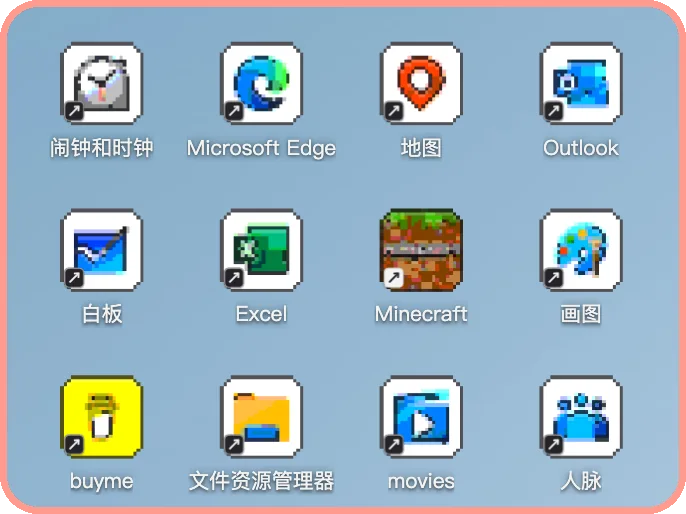
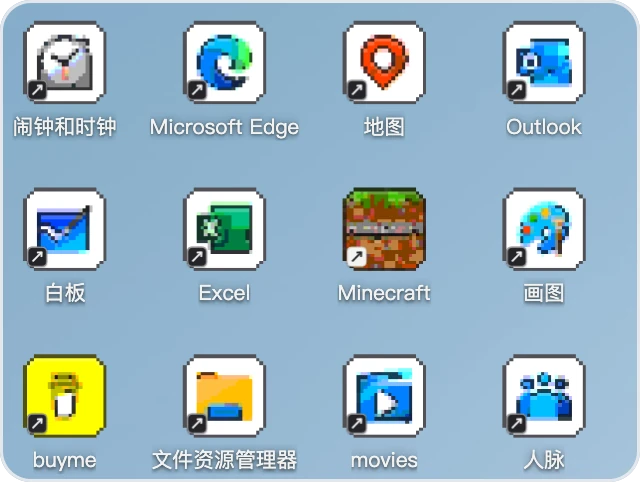
docs(readme): website-matched hairline frames on every capture; site moves to dm.xiaominglab.com
- Every README raster re-baked from the raw flat captures: 12px rounded
  corners + the site's #e4e7ec hairline border replace the coral frames,
  one frame signature shared with the website's capture treatment.
- app-studio/feature-zones re-derived from the clean template shot
  (named Apps/Work/Doing zones, no selection chrome, no skeleton panels).
- Official site linked from badges, install section and footer (en + zh).
- Domain: SITE_URL, llms.txt, wrangler custom-domain route and the
  website spec move from dm.nicepkg.cn to dm.xiaominglab.com (zone lives
  in the account; bound + deployed, canonical/hreflang verified live).

diff --git a/website/lib/site.ts b/website/lib/site.ts
@@ -1,4 +1,4 @@
-export const SITE_URL = "https://dm.nicepkg.cn";
+export const SITE_URL = "https://dm.xiaominglab.com";
 export const GITHUB_URL = "https://github.com/nicepkg/deskmakeover";
 export const RELEASES_LATEST_URL = `${GITHUB_URL}/releases/latest`;
 

diff --git a/README.md b/README.md
@@ -8,12 +8,13 @@
 
 **Give your Windows desktop a look you actually like. Don't like it? One click puts everything back.**
 
-[![Status](https://img.shields.io/badge/beta-v0.1.0-FF6F5E?labelColor=2f363d)](#-how-to-install)
+[![Website](https://img.shields.io/badge/Website-dm.xiaominglab.com-FF6F5E?labelColor=2f363d)](https://dm.xiaominglab.com)
+[![Status](https://img.shields.io/badge/beta-v0.1.0-464f58?labelColor=2f363d)](#-how-to-install)
 [![Windows](https://img.shields.io/badge/Windows-10%20%C2%B7%2011-464f58?labelColor=2f363d)](#-how-to-install)
 [![License](https://img.shields.io/badge/License-MIT-464f58?labelColor=2f363d)](LICENSE)
 [![Tauri](https://img.shields.io/badge/Built%20with-Tauri%202-464f58?labelColor=2f363d)](https://v2.tauri.app/)
 
-**English** · [中文](README.zh-CN.md)
+**English** · [中文](README.zh-CN.md) · [dm.xiaominglab.com](https://dm.xiaominglab.com)
 
 <br/>
 
@@ -110,7 +111,7 @@ Find that arrow ugly? Swap it for a cleaner mark, or remove it. The app does it 
 ## 🎛 Inside the studio
 
 <div align="center">
-<img src=".github/assets/app-studio.webp" width="880" alt="The DeskMakeover window on the wallpaper tab: zones on the live desktop mirror, materials and title styles on the right" />
+<img src=".github/assets/app-studio.webp" width="880" alt="The DeskMakeover window on the wallpaper tab: the Apps, Work and Doing zones live on the desktop mirror, the zone list on the right" />
 <br/>
 <sub>Every tab works the same way: adjust on the right, watch your real desktop change live on the left.</sub>
 </div>
@@ -118,6 +119,8 @@ Find that arrow ugly? Swap it for a cleaner mark, or remove it. The app does it 
 ## 📦 How to install
 
 The first installer is being prepared and will land on the [Releases](https://github.com/nicepkg/deskmakeover/releases) page. Then it's: download, double-click, done. It installs just for your account.
+
+Want the full tour first? The official site is at **[dm.xiaominglab.com](https://dm.xiaominglab.com)**.
 
 > If Windows shows a blue "Windows protected your PC" screen, don't worry. It's not a virus warning, just Windows being cautious with newer software. Click **More info**, then **Run anyway**.
 
@@ -197,6 +200,6 @@ The React UI, the Rust core, docs, localization, and Windows compatibility testi
 
 <img src=".github/assets/rule-gradient.svg" width="880" alt="" />
 
-<img src=".github/assets/logo.png" width="40" alt="" /><br/><b>DeskMakeover · 桌面美颜</b><br/><sub>[Releases](https://github.com/nicepkg/deskmakeover/releases) · [Issues](https://github.com/nicepkg/deskmakeover/issues) · English · [中文](README.zh-CN.md)</sub>
+<img src=".github/assets/logo.png" width="40" alt="" /><br/><b>DeskMakeover · 桌面美颜</b><br/><sub>[dm.xiaominglab.com](https://dm.xiaominglab.com) · [Releases](https://github.com/nicepkg/deskmakeover/releases) · [Issues](https://github.com/nicepkg/deskmakeover/issues) · English · [中文](README.zh-CN.md)</sub>
 
 </div>

diff --git a/docs/specs/10-website.md b/docs/specs/10-website.md
@@ -1,4 +1,4 @@
-# 10 — Website (dm.nicepkg.cn landing page)
+# 10 — Website (dm.xiaominglab.com landing page)
 
 Status: approved direction v4 (owner, 2026-07-17). v1 light-editorial, v2 dark-cinema and
 v3 flat-shader takes were all owner-rejected; v3 lives in `website-legacy/` for reference
@@ -8,7 +8,8 @@ the art direction sections of that plan are superseded by this spec).
 
 ## Scope
 
-One static marketing page for DeskMakeover at `dm.nicepkg.cn`, bilingual (`/` English,
+One static marketing page for DeskMakeover at `dm.xiaominglab.com` (originally planned
+as dm.nicepkg.cn; the owner remapped 2026-07-17), bilingual (`/` English,
 `/zh` Chinese), with a Download call-to-action, deployed to Cloudflare Workers Static
 Assets via wrangler, auto-deployed from CI.
 
@@ -168,9 +169,8 @@ Cloudflare Web Analytics beacon only (no cookies), injected only when
 - `website/` inside this repo, own `package.json` (root has no `workspaces`; keep it so).
 - Hosting: Cloudflare **Workers Static Assets** — `wrangler.jsonc` with
   `assets: { directory: "./out" }`, `workers_dev: true`. No Worker script file: requests
-  are served from assets and bill nothing. Custom-domain route for `dm.nicepkg.cn` is
-  commented until the zone moves into the Cloudflare account (currently on Aliyun DNS;
-  interim: CNAME `dm` → `deskmakeover-site.2214962083.workers.dev`).
+  are served from assets and bill nothing. Custom-domain route `dm.xiaominglab.com`
+  (`custom_domain: true`; xiaominglab.com is a zone in the account) binds on deploy.
 - CI: `.github/workflows/website.yml`, path-filtered to `website/**`; builds with bun,
   deploys with wrangler 4 on push to main (deploy step gated on the CF token secret).
 
@@ -191,7 +191,7 @@ Cloudflare Web Analytics beacon only (no cookies), injected only when
 3. The 3D monitor renders in viewport 1 at 1600×900 and 390×844; scan wipe, restore
    loop, state chip, pointer parallax and pause-offscreen verified in a real browser.
 4. Lighthouse (mobile emulation) meets the performance budget on the deployed URL.
-5. `wrangler deploy` from `website/` serves both locales on the workers.dev URL (and
-   dm.nicepkg.cn once DNS lands).
+5. `wrangler deploy` from `website/` serves both locales on the workers.dev URL and
+   dm.xiaominglab.com.
 6. CI deploys on a `website/**` push to main and skips on unrelated pushes.
 7. JSON-LD validates; hreflang pair resolves; zh subset build gate passes.
